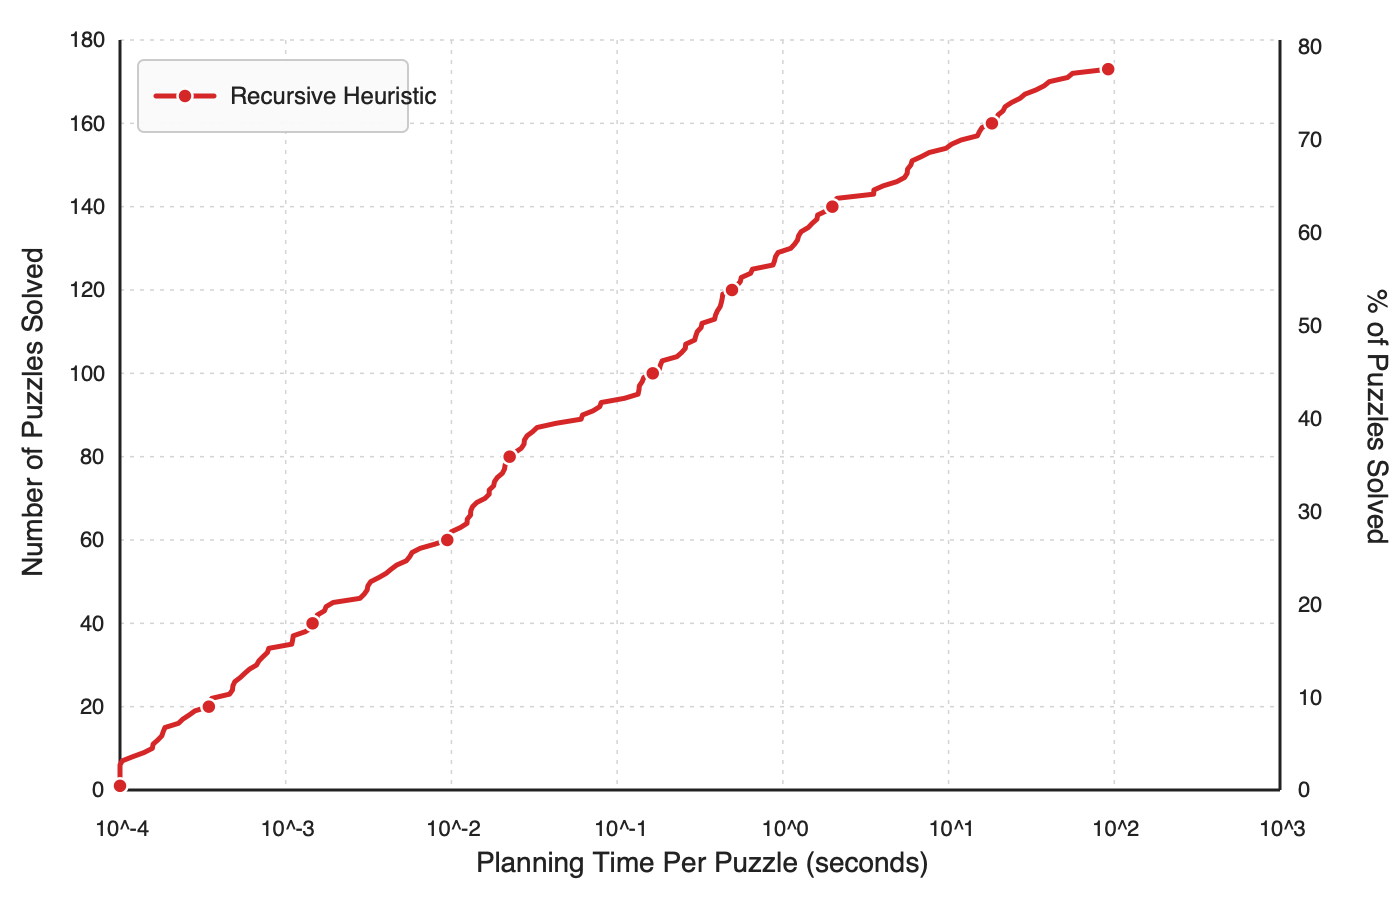
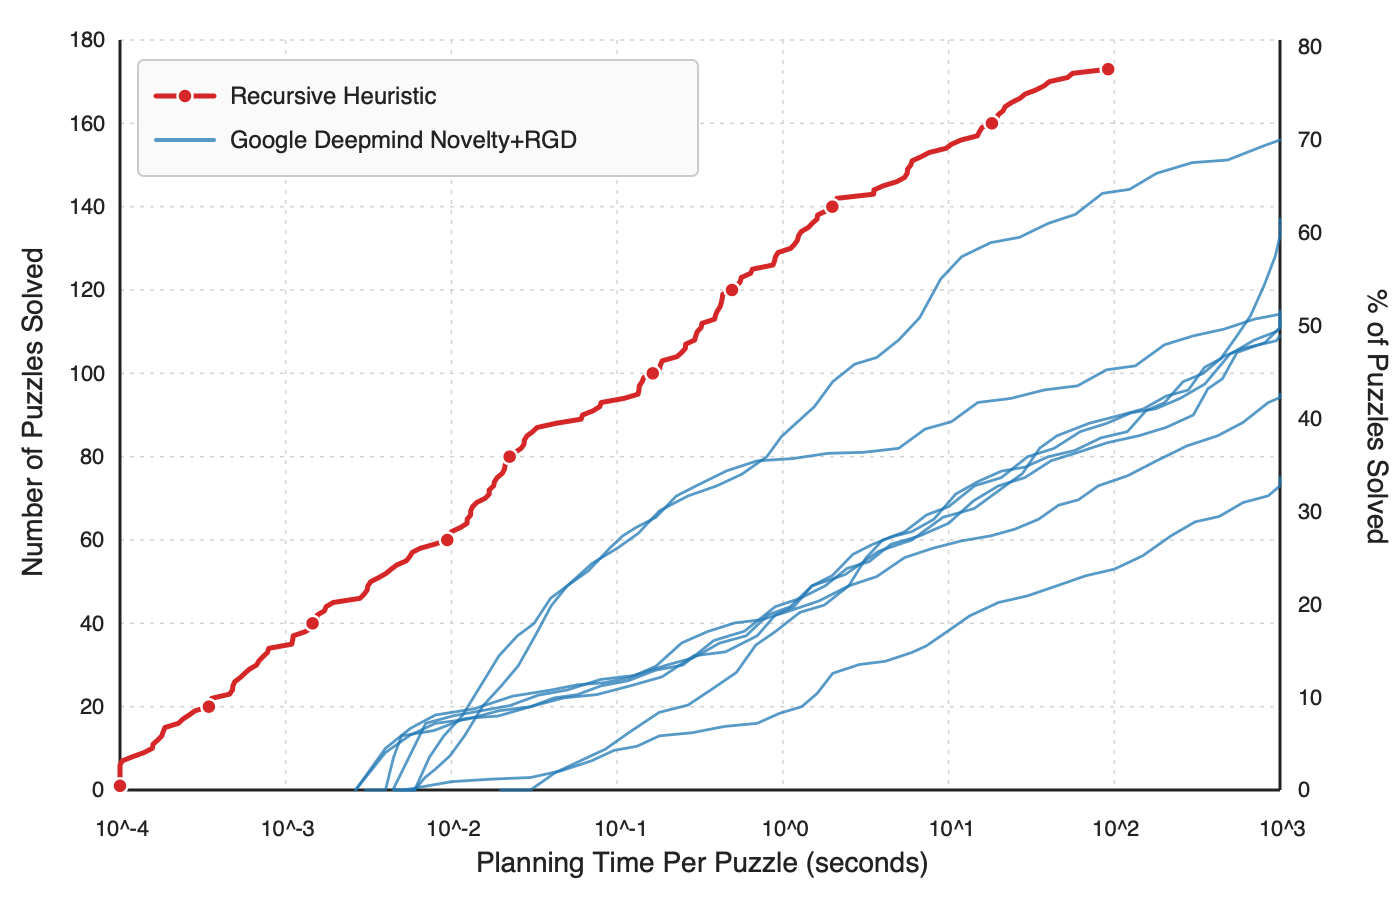
better png

diff --git a/plot_master_summary.py b/plot_master_summary.py
@@ -16,6 +16,147 @@ REPO_ROOT = Path(__file__).resolve().parent
 DEFAULT_INPUT = REPO_ROOT / "master_summary.json"
 DEFAULT_SVG = REPO_ROOT / "master_summary_solved_curve.svg"
 DEFAULT_PNG = REPO_ROOT / "master_summary_solved_curve.png"
+GOOGLE_DEEPMIND_BLUE = "#1f77b4"
+
+GOOGLE_DEEPMIND_CURVES: list[list[tuple[float, float]]] = [
+    [
+        (0.007, 16),
+        (0.015, 19),
+        (0.050, 24),
+        (0.200, 30),
+        (0.600, 37),
+        (1.500, 49),
+        (3.500, 59),
+        (6.000, 62),
+        (15.000, 74),
+        (40.000, 80),
+        (120.000, 86),
+        (260.000, 98),
+        (600.000, 106),
+        (1500.000, 109),
+    ],
+    [
+        (0.004, 10),
+        (0.008, 18),
+        (0.040, 24),
+        (0.120, 27),
+        (0.350, 38),
+        (1.100, 43),
+        (2.500, 49),
+        (4.000, 60),
+        (10.000, 68),
+        (30.000, 80),
+        (90.000, 88),
+        (250.000, 94),
+        (700.000, 108),
+        (1800.000, 113),
+    ],
+    [
+        (0.004, 9),
+        (0.008, 16),
+        (0.030, 20),
+        (0.080, 25),
+        (0.250, 30),
+        (0.900, 44),
+        (1.800, 49),
+        (4.500, 59),
+        (10.000, 64),
+        (20.000, 73),
+        (60.000, 81),
+        (140.000, 85),
+        (300.000, 90),
+        (550.000, 105),
+        (1200.000, 111),
+        (1900.000, 114),
+    ],
+    [
+        (0.004, 0),
+        (0.005, 13),
+        (0.030, 20),
+        (0.120, 25),
+        (0.700, 37),
+        (1.500, 49),
+        (6.000, 60),
+        (22.000, 73),
+        (45.000, 85),
+        (110.000, 90),
+        (280.000, 96),
+        (550.000, 109),
+        (800.000, 121),
+        (1100.000, 133),
+        (1400.000, 137),
+    ],
+    [
+        (0.030, 0),
+        (0.060, 7),
+        (0.120, 14),
+        (0.400, 25),
+        (0.900, 38),
+        (2.500, 49),
+        (8.000, 58),
+        (18.000, 61),
+        (35.000, 65),
+        (80.000, 73),
+        (180.000, 79),
+        (420.000, 85),
+        (850.000, 93),
+        (1300.000, 95),
+    ],
+    [
+        (0.010, 2),
+        (0.030, 3),
+        (0.070, 7),
+        (0.180, 13),
+        (0.700, 16),
+        (1.300, 20),
+        (2.000, 28),
+        (6.000, 33),
+        (9.000, 37),
+        (20.000, 45),
+        (45.000, 49),
+        (100.000, 53),
+        (220.000, 61),
+        (600.000, 69),
+        (1200.000, 73),
+        (1700.000, 75),
+    ],
+    [
+        (0.006, 0),
+        (0.008, 5),
+        (0.012, 13),
+        (0.020, 25),
+        (0.032, 37),
+        (0.050, 49),
+        (0.090, 58),
+        (0.130, 63),
+        (0.300, 73),
+        (0.700, 79),
+        (5.000, 82),
+        (15.000, 93),
+        (60.000, 97),
+        (300.000, 109),
+        (700.000, 113),
+        (1800.000, 115),
+    ],
+    [
+        (0.006, 0),
+        (0.009, 13),
+        (0.015, 25),
+        (0.025, 37),
+        (0.050, 49),
+        (0.100, 58),
+        (0.180, 67),
+        (0.400, 73),
+        (0.800, 80),
+        (1.200, 88),
+        (2.000, 98),
+        (5.000, 108),
+        (12.000, 128),
+        (40.000, 136),
+        (180.000, 148),
+        (1300.000, 156),
+    ],
+]
 
 SWIFT_SVG_TO_PNG = r"""
 import AppKit
@@ -149,6 +290,68 @@ def svg_text(
     )
 
 
+def svg_polyline(
+    points: list[tuple[float, float]],
+    *,
+    x_pos: Any,
+    y_pos: Any,
+    stroke: str,
+    stroke_width: float,
+    opacity: float = 1.0,
+) -> str:
+    point_text = " ".join(f"{x_pos(x):.2f},{y_pos(y):.2f}" for x, y in points)
+    return (
+        f'<polyline points="{point_text}" fill="none" stroke="{stroke}" '
+        f'stroke-width="{stroke_width}" stroke-linejoin="round" stroke-linecap="round" opacity="{opacity:.2f}" />'
+    )
+
+
+def refine_traced_curve(points: list[tuple[float, float]], x_floor: float) -> list[tuple[float, float]]:
+    if not points:
+        return []
+
+    first_x, first_y = points[0]
+    if len(points) > 1:
+        next_x = points[1][0]
+        head_shift = min(0.35, max(0.12, (math.log10(next_x) - math.log10(first_x)) * 0.6))
+    else:
+        head_shift = 0.2
+    start_x = max(x_floor, 10 ** (math.log10(first_x) - head_shift))
+
+    refined: list[tuple[float, float]] = [(start_x, 0.0), (first_x, float(first_y))]
+    prev_x = first_x
+    prev_y = float(first_y)
+
+    for segment_index, (next_x, next_y) in enumerate(points[1:], start=1):
+        next_y = float(next_y)
+        log_prev_x = math.log10(prev_x)
+        log_next_x = math.log10(next_x)
+        span = log_next_x - log_prev_x
+        dy = next_y - prev_y
+
+        interior_count = max(1, min(4, int(round(span * 3 + abs(dy) / 18))))
+        amplitude = min(1.5, max(0.0, abs(dy) * 0.1))
+
+        for step in range(1, interior_count + 1):
+            t = step / (interior_count + 1)
+            x = 10 ** (log_prev_x + span * t)
+            base_y = prev_y + dy * t
+            wiggle = math.sin(math.pi * t) * amplitude
+            direction = 1.0 if (segment_index + step) % 2 == 0 else -1.0
+            y = base_y + direction * wiggle
+            if dy > 0:
+                y = min(max(y, prev_y + 0.15), next_y - 0.15)
+            elif dy < 0:
+                y = max(min(y, prev_y - 0.15), next_y + 0.15)
+            refined.append((x, y))
+
+        refined.append((next_x, next_y))
+        prev_x = next_x
+        prev_y = next_y
+
+    return refined
+
+
 def write_plot_svg(
     *,
     durations: list[float],
@@ -253,6 +456,18 @@ def write_plot_svg(
             continue
         parts.append(svg_text(plot_right + 18, y_pos(count_value) + 7, str(percent), size=22, anchor="start"))
 
+    for curve in GOOGLE_DEEPMIND_CURVES:
+        parts.append(
+            svg_polyline(
+                refine_traced_curve(curve, x_min),
+                x_pos=x_pos,
+                y_pos=y_pos,
+                stroke=GOOGLE_DEEPMIND_BLUE,
+                stroke_width=2.8,
+                opacity=0.75,
+            )
+        )
+
     parts.append(
         f'<polyline points="{" ".join(polyline_points)}" fill="none" '
         'stroke="#d62728" stroke-width="5" stroke-linejoin="round" stroke-linecap="round" />'
@@ -267,14 +482,16 @@ def write_plot_svg(
 
     legend_x = plot_left + 18
     legend_y = plot_top + 20
-    legend_w = 270
-    legend_h = 72
+    legend_w = 560
+    legend_h = 116
     parts.extend(
         [
             f'<rect x="{legend_x:.2f}" y="{legend_y:.2f}" width="{legend_w}" height="{legend_h}" rx="6" ry="6" fill="#fafafa" stroke="#c9c9c9" stroke-width="2" opacity="0.96" />',
             f'<line x1="{legend_x + 18:.2f}" y1="{legend_y + 36:.2f}" x2="{legend_x + 76:.2f}" y2="{legend_y + 36:.2f}" stroke="#d62728" stroke-width="5" stroke-linecap="round" />',
             f'<circle cx="{legend_x + 47:.2f}" cy="{legend_y + 36:.2f}" r="7.5" fill="#d62728" stroke="#ffffff" stroke-width="2.5" />',
             svg_text(legend_x + 92, legend_y + 44, legend_label, size=24, anchor="start"),
+            f'<line x1="{legend_x + 18:.2f}" y1="{legend_y + 80:.2f}" x2="{legend_x + 76:.2f}" y2="{legend_y + 80:.2f}" stroke="{GOOGLE_DEEPMIND_BLUE}" stroke-width="4" stroke-linecap="round" opacity="0.75" />',
+            svg_text(legend_x + 92, legend_y + 88, "Google Deepmind Novelty+RGD", size=24, anchor="start"),
         ]
     )
 